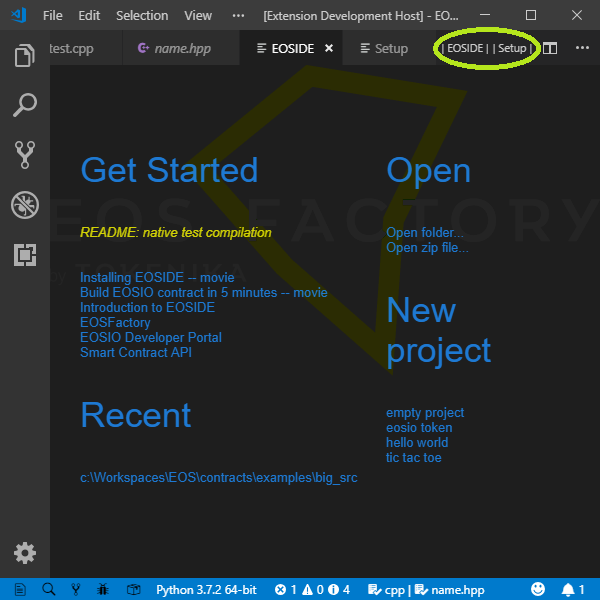
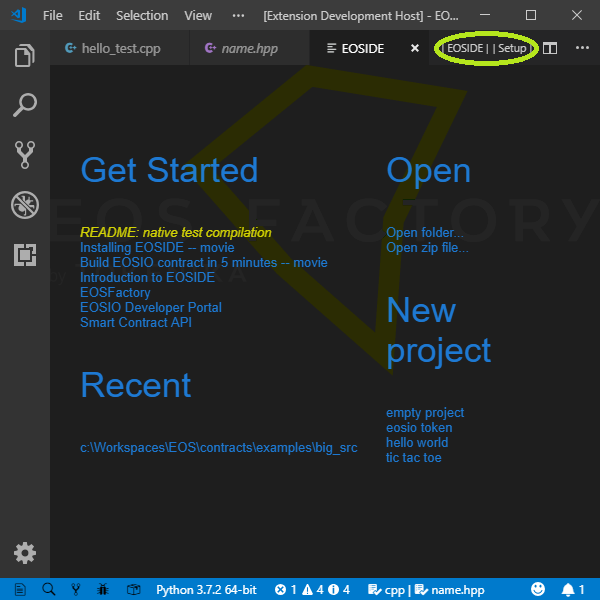
update

diff --git a/src/getstarted.ts b/src/getstarted.ts
@@ -10,9 +10,8 @@ const RECENT = "recent"
 const RECENT_JSON = RECENT + ".json"
 const GET_STARTED = "getstarted"
 const README = "readme"
-const README_LINK = "https://github.com/tokenika/eosfactory.io/blob/master/eoside/html/_static/1.0.3-native_tests.md"
 const README_TEXT = "README: native test compilation"
-const README_COLLOR = "yellow"
+const README_COLOR = "yellow"
 const GET_STARTED_JSON = GET_STARTED + ".json"
 const OPEN = "open"
 
@@ -204,15 +203,24 @@ export default class GetStartedPanel extends def.Panel {
 
 
 function body(extensionPath:string){
-    return `
+    var body = `
         <div class="row">
             <div class="leftcolumn">
                 <div>
-                    <p style="color: unset; font-size: 35px;">Get Started</p>
+                    <p style="color: unset; font-size: 35px;">Get Started</p>`
 
-                    <em style="color: ${README_COLLOR}"> ${def.clickable(README_LINK, README_TEXT, README_TEXT,README)}</em>
-                    <br><br>                    
-                    ${GetStarted.createOrGet(extensionPath).list()}
+    body += vscode.workspace.getConfiguration().eoside.readme
+                ?
+                `
+                <em style="color: ${README_COLOR}"> ${def.clickable(
+                vscode.workspace.getConfiguration().eoside.readme,
+                vscode.workspace.getConfiguration().eoside.readmeTitle, 
+                vscode.workspace.getConfiguration().eoside.readmeTitle, 
+                README)}</em>
+                `
+                : ``
+    body += `
+                ${GetStarted.createOrGet(extensionPath).list()}
                 </div>
                 <div>
                     <p style="color: unset; font-size: 35px;">Recent</p>
@@ -237,6 +245,7 @@ function body(extensionPath:string){
             </div>
         </div>
     `
+    return body
 }
 
 

diff --git a/src/setup.ts b/src/setup.ts
@@ -160,7 +160,7 @@ export default class SetupPanel extends def.Panel{
 
 
 function body(extensionPath:string){
-    var options = vscode.workspace.getConfiguration().eoside.test_mode
+    var options = vscode.workspace.getConfiguration().eoside.testMode
         ? `
         <div class="row">
             <div class="leftcolumn">
@@ -194,7 +194,7 @@ function body(extensionPath:string){
             ${CodeOptions.createOrGet(extensionPath).items()}
         </div>
         `
-    var testButtons = vscode.workspace.getConfiguration().eoside.test_mode
+    var testButtons = vscode.workspace.getConfiguration().eoside.testMode
     ? `
             <button
                 class="ctr ctr"; 
@@ -290,7 +290,7 @@ export function compile(test_mode=false){
                     vscode.workspace.workspaceFolders[0].uri.fsPath,
                     ".vscode/c_cpp_properties.json")}' `
             + ' --compile'
-        if(test_mode && vscode.workspace.getConfiguration().eoside.test_mode){
+        if(test_mode && vscode.workspace.getConfiguration().eoside.testMode){
             cl += ' --test_mode'
         }
         terminal.sendText(cl)
@@ -309,7 +309,7 @@ export function build(test_mode=false){
             + ` '${path.join(
                     vscode.workspace.workspaceFolders[0].uri.fsPath,
                     ".vscode/c_cpp_properties.json")}'`
-        if(test_mode && vscode.workspace.getConfiguration().eoside.test_mode){
+        if(test_mode && vscode.workspace.getConfiguration().eoside.testMode){
             cl += " --test_mode"
         }                    
         terminal.sendText(cl)
